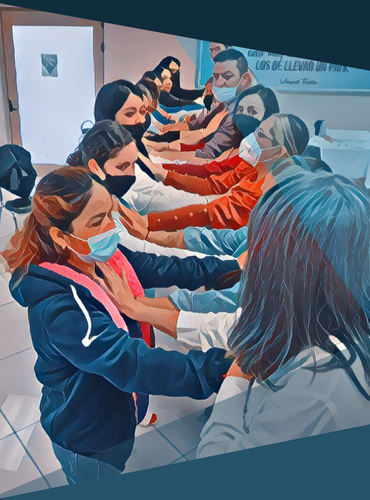
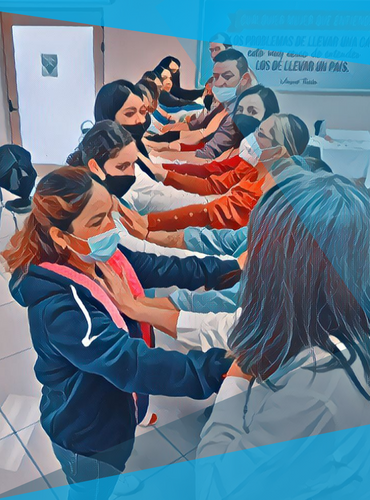
contact and new images

Changed region(s): [[0.0, 0.84, 1.0, 1.0], [0.0, 0.0, 1.0, 0.15]]

diff --git a/src/components/contact/contact.jsx b/src/components/contact/contact.jsx
@@ -7,7 +7,7 @@ import ContactInfo from './contactInfo/contactInfo';
 import ContactSocial from './contactInfo/contactSocial';
 import Modal from '../contact-modal/Modal';
 
-import ContactBackground from '../../assets/contact/bg.png';
+import ContactBackground from '../../assets/contact/bg-2.png';
 
 class Contact extends React.Component {
   constructor(props) {
